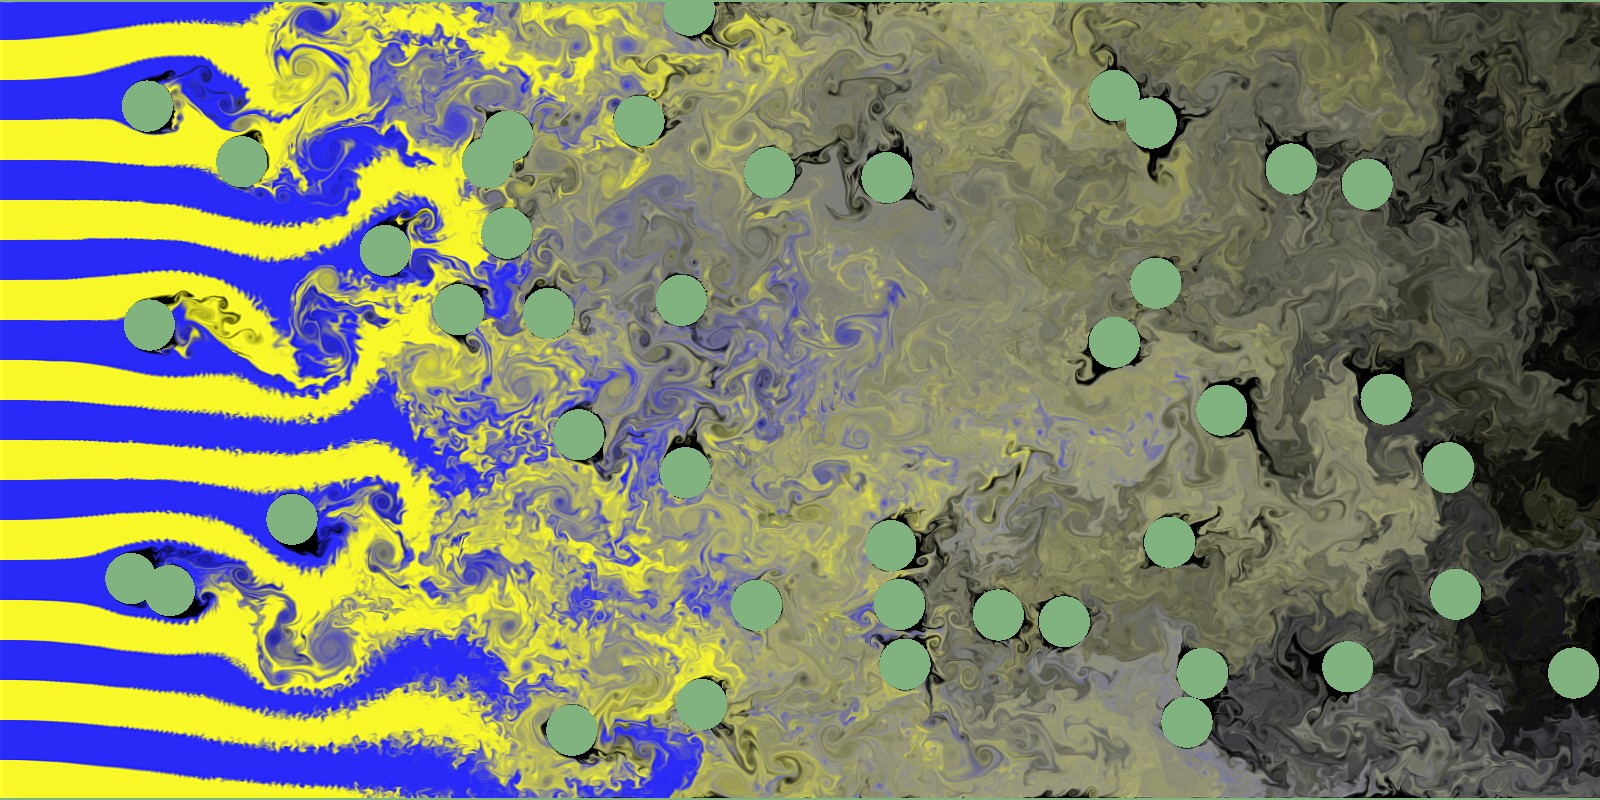
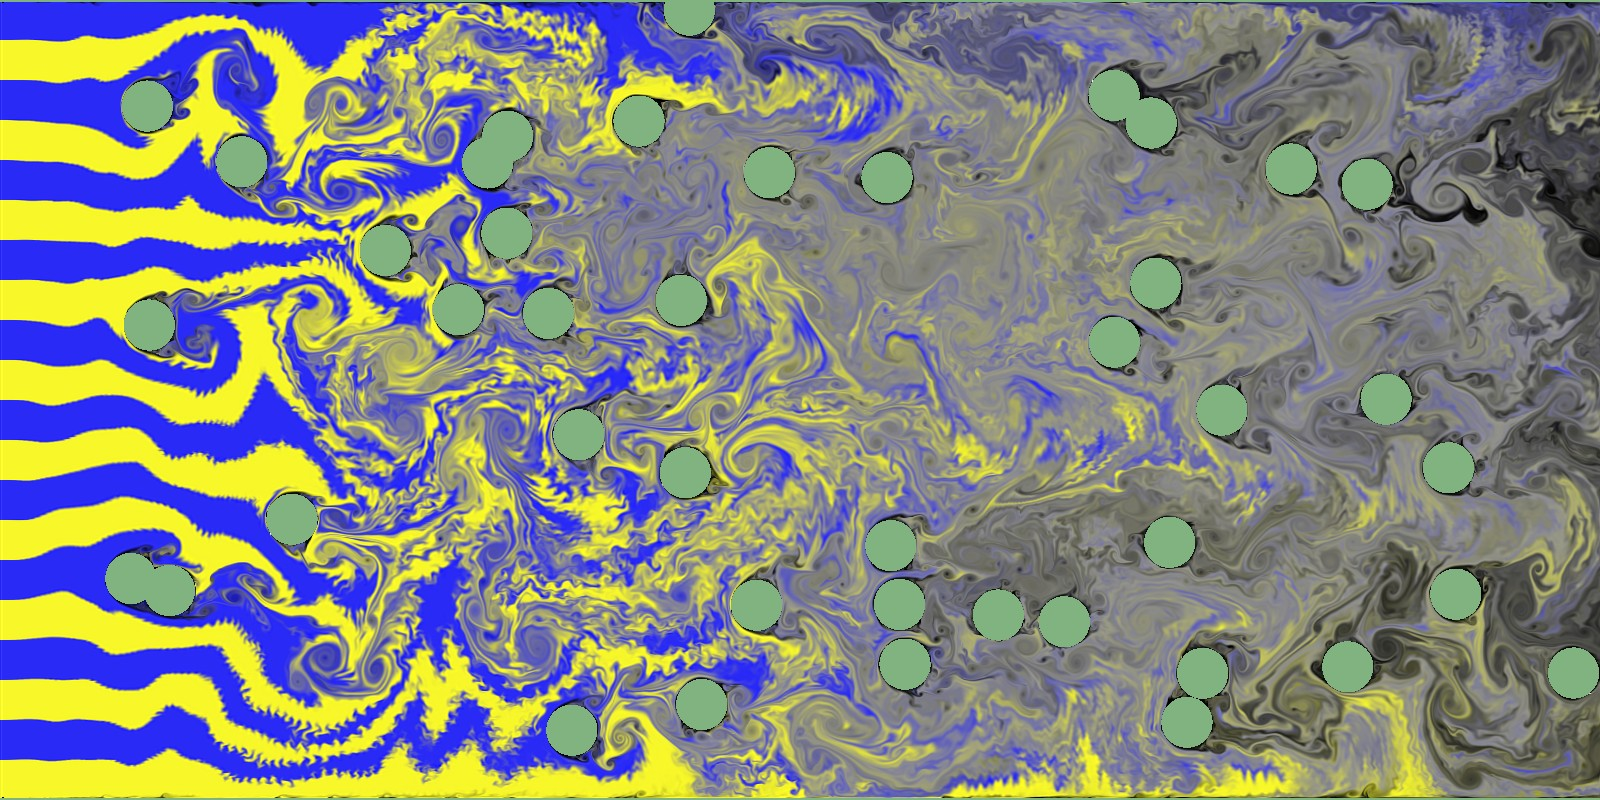
画像の更新

diff --git a/README.md b/README.md
@@ -1,7 +1,7 @@
 # 2D Fluid Simulator
 
-![baundary_condition_2_dye](./images/bc2_res1600_re100_cip_vc1_dye.jpg)
-![baundary_condition_2_norm](./images/bc2_res1600_re100_cip_vc1_norm.jpg)
+![baundary_condition_2_dye](./images/bc2_res1600_re100_cip_vc4_dye.jpg)
+![baundary_condition_2_norm](./images/bc2_res1600_re100_cip_vc4_norm.jpg)
 
 ## Features
 
@@ -64,13 +64,13 @@ GeForce GTX 1080 or higher recommended.
 ### Flow Visualization
 
 - Norm and Pressure
-  ![norm_and_pressure](./images/bc4_res800_re1000_cip_vc4_norm.jpg)
+  ![norm_and_pressure](./images/bc4_res800_re100_cip_vc4_norm.jpg)
 - Pressure
-  ![pressure](./images/bc4_res800_re1000_cip_vc4_pressure.jpg)
+  ![pressure](./images/bc4_res800_re100_cip_vc4_pressure.jpg)
 - Vorticity
-  ![vorticity](./images/bc4_res800_re1000_cip_vc4_vorticity.jpg)
+  ![vorticity](./images/bc4_res800_re100_cip_vc4_vorticity.jpg)
 - Dye
-  ![dye](./images/bc4_res800_re1000_cip_vc4_dye.jpg)
+  ![dye](./images/bc4_res800_re100_cip_vc4_dye.jpg)
 
 ### Vorticity Confinement
 
